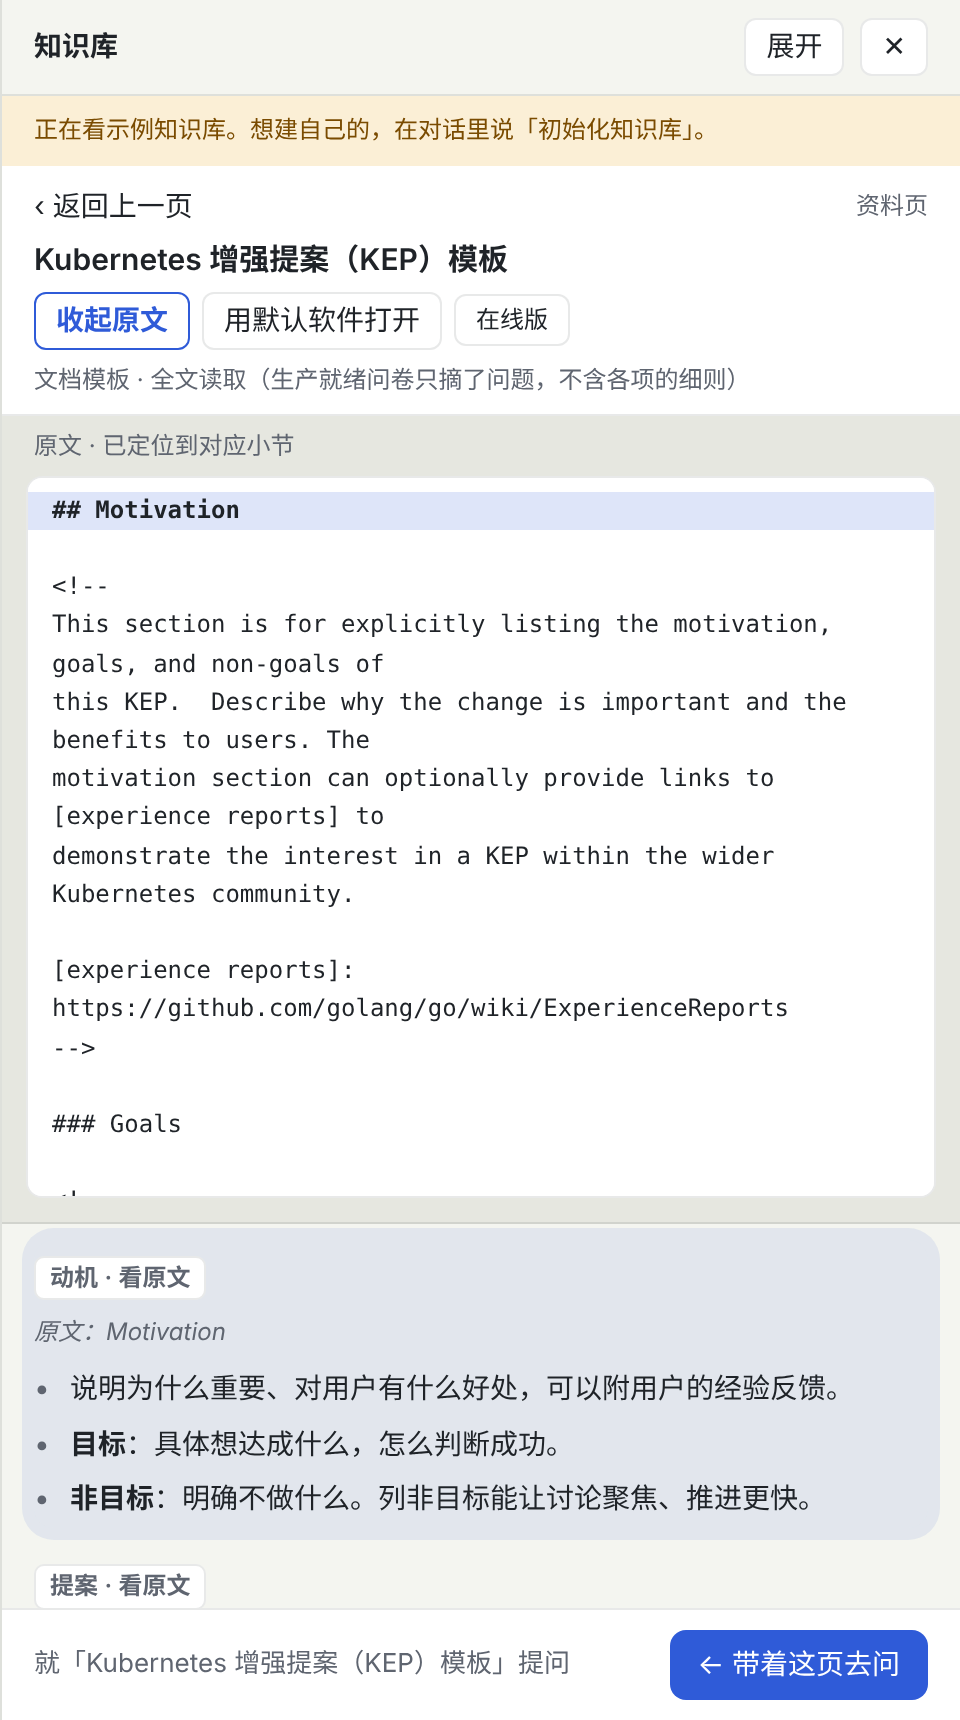
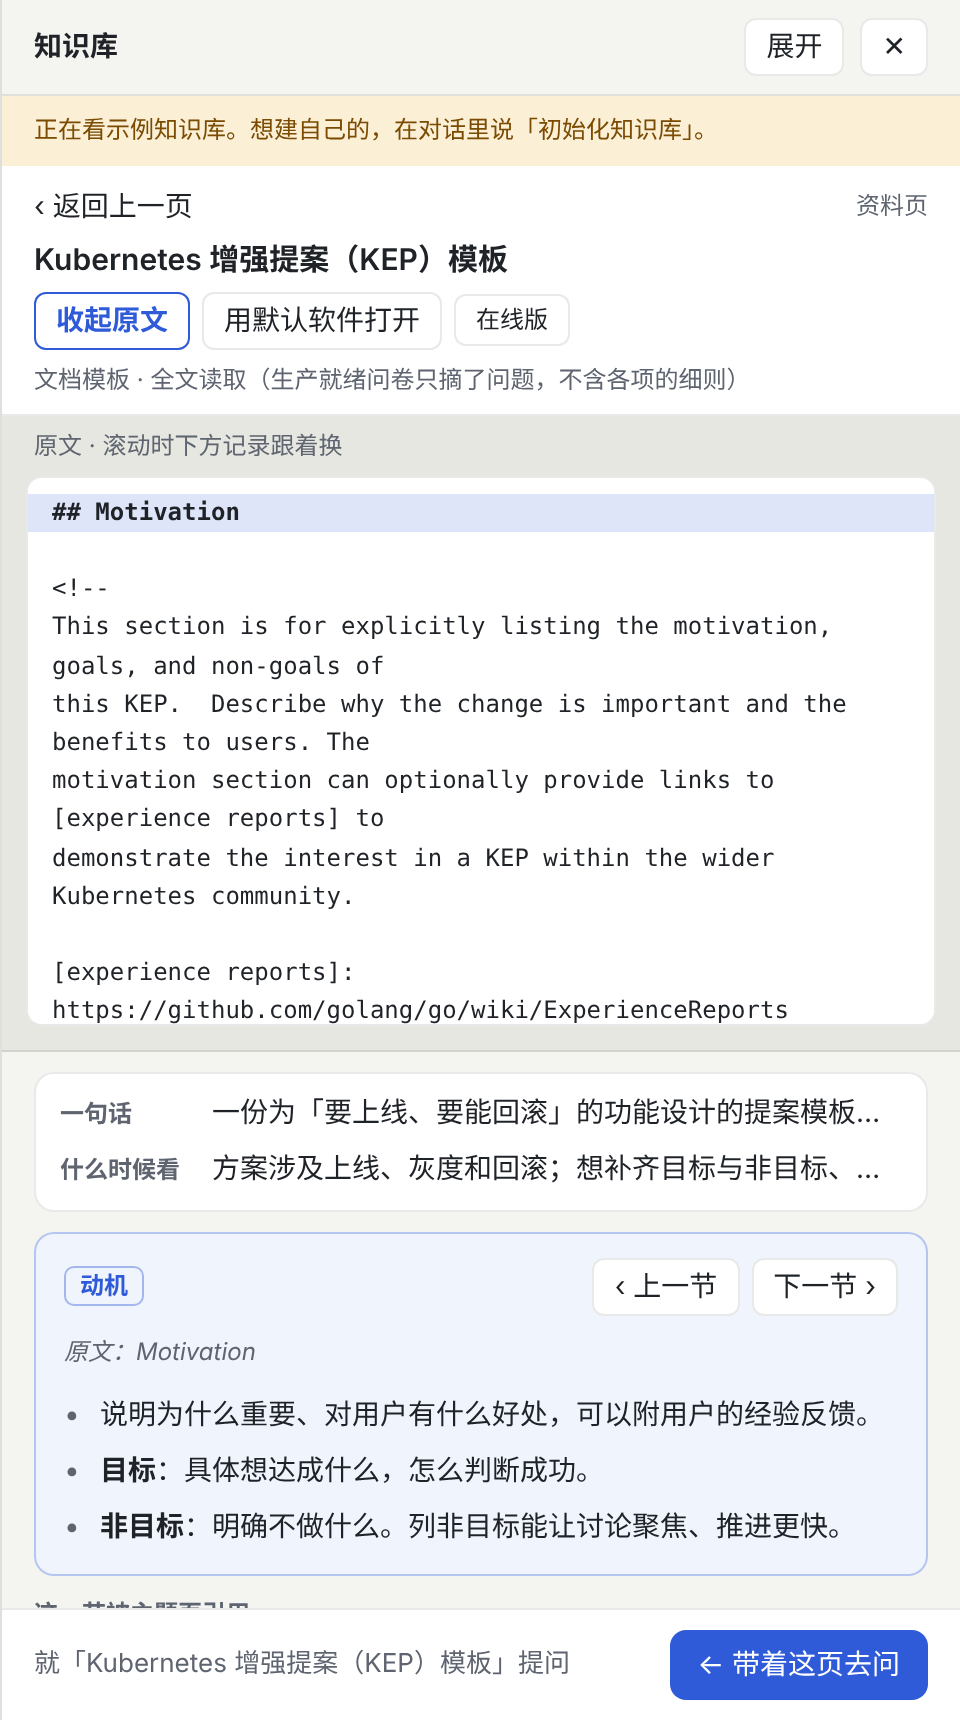
对照模式：缩短文字原文的预览高度，让当前小节的记录完整露出；更新截图

diff --git a/plugin/lib/client.js b/plugin/lib/client.js
@@ -78,7 +78,7 @@ body[data-ds-dark-theme] .akb-root { --akb-accent:#5686fe; --akb-bg:var(--dsw-al
 .akb-pv-bar .nav { display:flex; align-items:center; gap:6px; }
 .akb-pv-frame { width:100%; aspect-ratio:16/10; border:none; background:#fff; display:block; }
 .akb-pv-img { width:100%; max-height:46vh; min-height:120px; object-fit:contain; background:#fff; display:block; }
-.akb-pv-text { position:relative; max-height:42vh; overflow:auto; background:var(--akb-card); margin:0 12px 12px; border-radius:8px; border:1px solid var(--akb-line); padding:8px 0; font-family:ui-monospace,SFMono-Regular,Menlo,monospace; font-size:12px; line-height:1.6; }
+.akb-pv-text { position:relative; max-height:32vh; overflow:auto; background:var(--akb-card); margin:0 12px 12px; border-radius:8px; border:1px solid var(--akb-line); padding:8px 0; font-family:ui-monospace,SFMono-Regular,Menlo,monospace; font-size:12px; line-height:1.6; }
 .akb-pv-text div { padding:0 12px; white-space:pre-wrap; word-break:break-word; min-height:1.6em; }
 .akb-pv-text div.is-hit { background:color-mix(in srgb,var(--akb-accent) 16%,transparent); font-weight:600; }
 .akb-md { font-size:14px; line-height:1.7; display:flex; flex-direction:column; gap:10px; padding-top:8px; }
